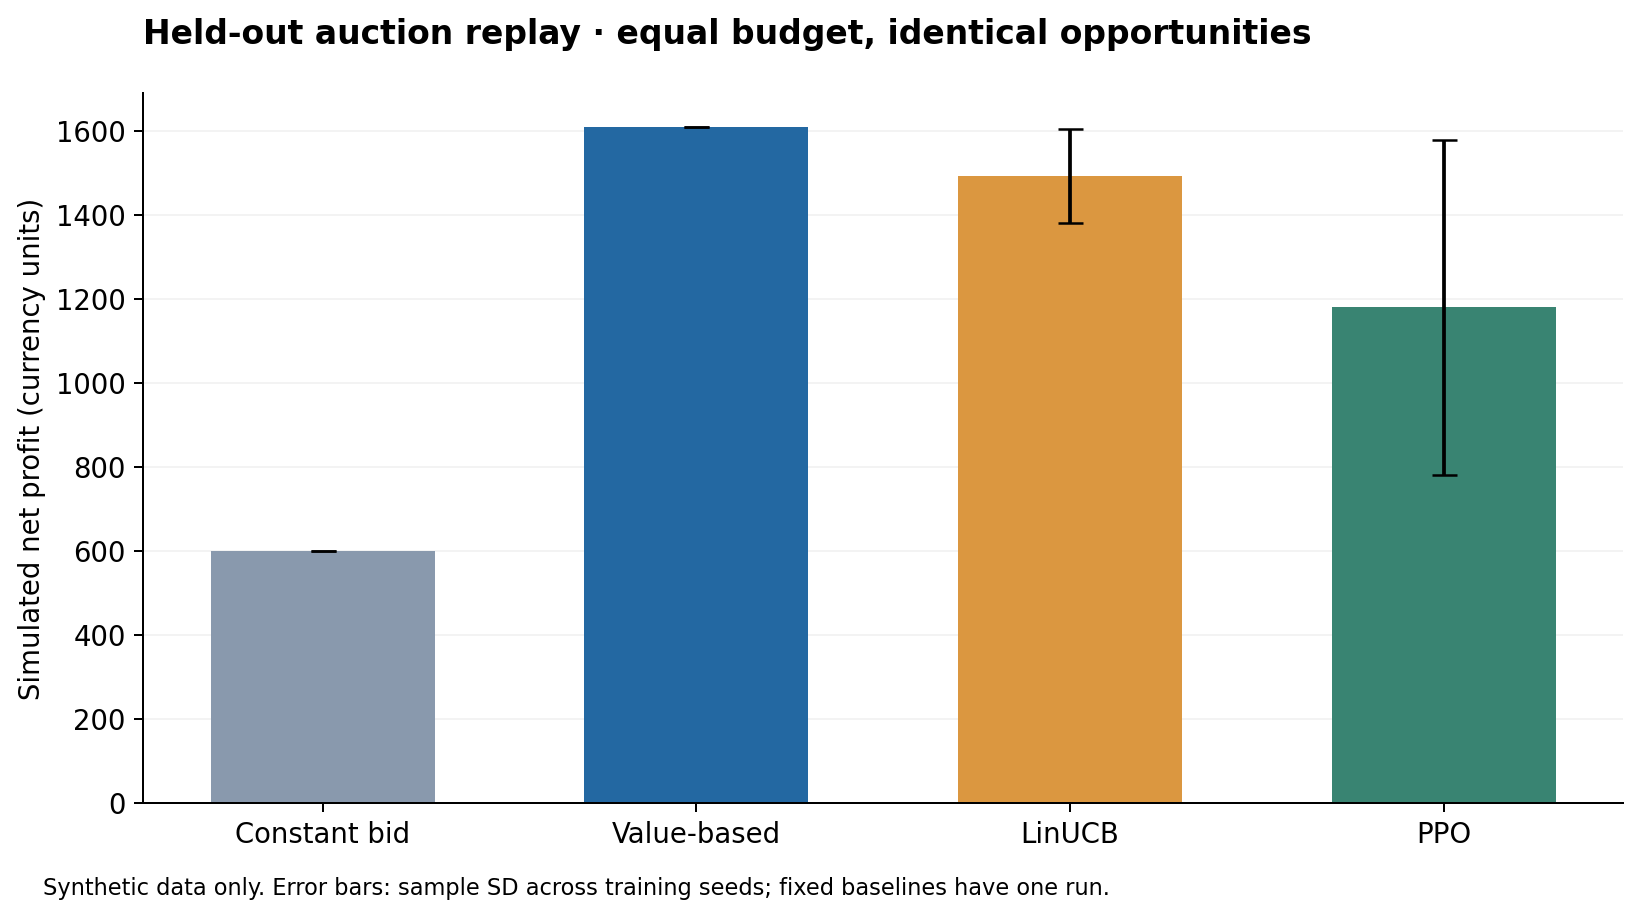
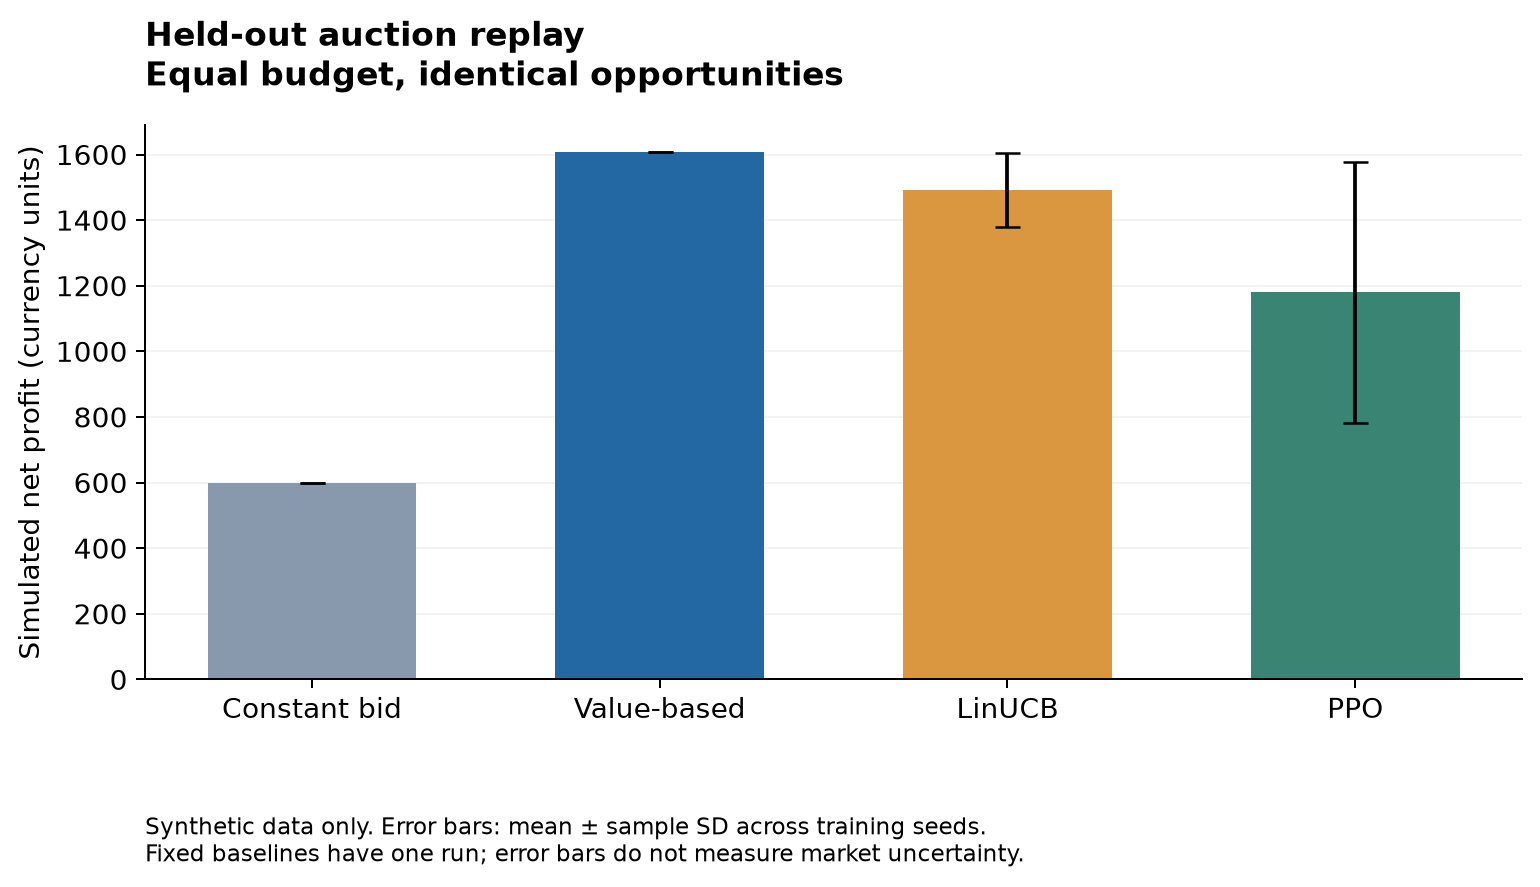
Fix benchmark chart footer clipping and reserve space in plot generation

diff --git a/src/aurorabid/experiment.py b/src/aurorabid/experiment.py
@@ -128,14 +128,16 @@ def make_plots(results, traces, output, config):
     names = results.policy.drop_duplicates().tolist()
     means = results.groupby("policy", sort=False).profit.mean()
     std = results.groupby("policy", sort=False).profit.std().fillna(0.)
-    fig, ax = plt.subplots(figsize=(9, 4.7), layout="constrained")
+    fig, ax = plt.subplots(figsize=(9, 5.4))
+    fig.subplots_adjust(left=.12, right=.97, top=.82, bottom=.25)
     ax.bar(names, means.loc[names], yerr=std.loc[names], color=colors, capsize=5, width=.6)
     ax.axhline(0, color="#596579", linewidth=.8)
     ax.set_ylabel("Simulated net profit (currency units)")
-    ax.set_title("Held-out auction replay · equal budget, identical opportunities", loc="left", pad=20, weight="bold")
+    ax.set_title("Held-out auction replay\nEqual budget, identical opportunities", loc="left", pad=16, weight="bold")
     ax.grid(axis="y", alpha=.15)
     ax.set_axisbelow(True)
-    fig.text(.02, -.045, "Synthetic data only. Error bars: sample SD across training seeds; fixed baselines have one run.", fontsize=9)
+    fig.text(.12, .055, "Synthetic data only. Error bars: mean ± sample SD across training seeds.\nFixed baselines have one run; error bars do not measure market uncertainty.",
+             fontsize=9, va="bottom")
     fig.savefig(output / "policy_comparison.png", dpi=180, bbox_inches="tight")
     plt.close(fig)
     fig, axes = plt.subplots(1, 2, figsize=(11, 4), layout="constrained")
